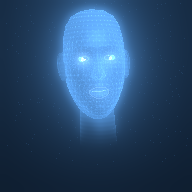
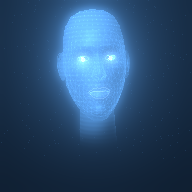
feat(gideon-home): rosto v3 — menos achatado (relevo e luz com sombra)
Pedido do dono: rosto muito achatado. Mais profundidade, olhos fundos, maçãs e queixo
marcados, lábios mais cheios; luz de cima/esquerda com sombras.

Claude-Session: https://claude.ai/code/session_01S6A871KPxJb9f2aMNvANUj

Changed region(s): [[0.2812, 0.0625, 0.6875, 0.7188]]

diff --git a/gideon/home/rosto.js b/gideon/home/rosto.js
@@ -32,16 +32,22 @@ export function iniciarRosto(palco) {
   for (let i = 0; i < N; i++) {
     let x = B[i * 3], y = B[i * 3 + 1], z = B[i * 3 + 2];
     y += 0.3 * suave(-7, -9.4, y);                                                      // queixo um pouco menor (olhos ficam no meio da cabeça)
-    x *= 0.87 * (1 - 0.2 * suave(-2.5, -10.5, y));                                      // mais estreito; maxilar afina até o queixo
+    x *= 0.9 * (1 - 0.2 * suave(-2.5, -10.5, y));                                       // mais estreito; maxilar afina até o queixo
     const ax = Math.abs(x);
-    z += 0.3 * suave(3.2, 5.6, ax) * suave(-1.2, 0.6, y) * suave(2.8, 1.0, y);        // maçãs do rosto
-    z -= 0.35 * suave(3.0, 5.0, ax) * suave(-1.6, -3.2, y) * suave(-6.2, -4.4, y);    // bochecha um pouco funda
-    const nariz = suave(2.4, 1.0, ax) * suave(-3.0, -1.8, y) * suave(3.2, 2.0, y) * suave(4.6, 5.6, z);
-    z -= (z - 4.6) * 0.2 * nariz; x *= 1 - 0.1 * nariz;                                 // nariz mais delicado
+    // relevo (rosto menos achatado): profundidade geral maior, olhos fundos, sobrancelha, nariz, maçãs, lábios e queixo saltando
+    z = 0.6 + (z - 0.6) * 1.2;
+    const orbita = 1 - suave(0.55, 1.45, Math.hypot((ax - 2.8) / 1.05, (y - 2.7) / 0.85));
+    z -= 0.45 * orbita;                                                                  // olhos mais fundos
+    z += 0.12 * suave(0.8, 1.8, ax) * suave(5.2, 4.4, ax) * suave(3.4, 3.9, y) * suave(5.4, 4.6, y); // arco da sobrancelha
+    z += 0.55 * suave(3.0, 5.4, ax) * suave(-1.4, 0.4, y) * suave(2.6, 1.0, y);        // maçãs do rosto
+    z -= 0.55 * suave(3.0, 5.0, ax) * suave(-1.6, -3.2, y) * suave(-6.4, -4.4, y);    // bochecha funda abaixo da maçã
+    z += 0.6 * suave(2.8, 0.6, ax) * suave(-6.8, -8.2, y);                              // queixo marcado (não fica para trás no perfil)
+    const nariz = suave(2.4, 1.0, ax) * suave(-3.0, -1.8, y) * suave(3.2, 2.0, y) * suave(5.0, 6.2, z);
+    z += (z - 5.0) * 0.03 * nariz; x *= 1 - 0.12 * nariz;                               // nariz fino
     B[i * 3] = x; B[i * 3 + 1] = y; B[i * 3 + 2] = z;
   }
-  for (const i of [185, 40, 39, 37, 0, 267, 269, 270, 409]) { B[i * 3 + 1] += 0.08; B[i * 3 + 2] += 0.1; }
-  for (const i of [146, 91, 181, 84, 17, 314, 405, 321, 375]) { B[i * 3 + 1] -= 0.1; B[i * 3 + 2] += 0.1; }
+  for (const i of [185, 40, 39, 37, 0, 267, 269, 270, 409]) { B[i * 3 + 1] += 0.08; B[i * 3 + 2] += 0.15; }
+  for (const i of [146, 91, 181, 84, 17, 314, 405, 321, 375]) { B[i * 3 + 1] -= 0.1; B[i * 3 + 2] += 0.15; }
   for (const i of SOBRANCELHAS) B[i * 3 + 1] += 0.15;
   for (const i of [95, 88, 178, 87, 14, 317, 402, 318, 324]) B[i * 3 + 1] += 0.42; // fecha a fresta da malha original
   for (const i of [191, 80, 81, 82, 13, 312, 311, 310, 415]) B[i * 3 + 1] -= 0.06;
@@ -118,8 +124,8 @@ export function iniciarRosto(palco) {
       vec4 mv = viewMatrix * w; vV = normalize(-mv.xyz); gl_Position = projectionMatrix * mv; }`;
   const FRAG = `uniform vec3 uCor; uniform float uT, uBrilho, uPinos, uSome; varying vec3 vN; varying vec3 vV; varying vec3 vW; varying vec3 vB;
     void main(){ vec3 n = normalize(vN); float fr = pow(1.0 - abs(dot(n, normalize(vV))), 2.0);
-      vec3 L = normalize(vec3(0.2, 0.55, 0.8)); float luz = max(dot(n, L), 0.0);
-      float esp = pow(max(dot(reflect(-L, n), normalize(vV)), 0.0), 6.0);
+      vec3 L = normalize(vec3(-0.3, 0.6, 0.75)); float luz = max(dot(n, L), 0.0);
+      float esp = pow(max(dot(reflect(-L, n), normalize(vV)), 0.0), 10.0);
       float linhas = 0.86 + 0.14 * sin(vW.y * 7.0 - uT * 2.2);
       float faixa = smoothstep(1.3, 0.0, abs(vW.y - (16.0 - mod(uT * 6.0, 46.0))));
       vec3 q = vB - vec3(0.0, 1.5, -4.0);
@@ -128,7 +134,7 @@ export function iniciarRosto(palco) {
       float pino = smoothstep(0.2, 0.09, d) * (0.5 + 0.5 * smoothstep(0.12, 0.0, length(f - vec2(-0.05, 0.06))));
       float grade = (smoothstep(0.05, 0.0, abs(f.x)) * 0.7 + smoothstep(0.04, 0.0, abs(f.y)) * 0.3) * 0.09;
       float pontos = uPinos * (pino * mix(0.75, 0.38, rosto) + grade * (1.0 - 0.6 * rosto));
-      float a = (0.02 + 0.55 * fr + 0.2 * luz * luz + 0.16 * esp) * linhas + 0.18 * faixa + pontos * (0.45 + 0.55 * luz);
+      float a = (0.006 + 0.36 * fr + 0.34 * pow(luz, 1.8) + 0.2 * esp) * linhas + 0.14 * faixa + pontos * (0.22 + 0.7 * luz);
       a *= mix(1.0, 0.8 * smoothstep(-4.5, 4.5, vB.y), uSome); // pescoço some para baixo
       gl_FragColor = vec4(uCor * a * uBrilho, 1.0); }`;
   const pele = (pinos = 1) => { const m = new T.ShaderMaterial({ uniforms: { ...uni, uPinos: { value: pinos }, uSome: { value: 0 } }, vertexShader: VERT, fragmentShader: FRAG,

diff --git a/gideon/docs/changelog.md b/gideon/docs/changelog.md
@@ -44,3 +44,4 @@
 - GIDEON Home: por voz o modelo se apresentava como "Gemini" e dizia não ter Gmail nem Agenda. Causa: a senha temporária do Google, quando traz `bidiGenerateContentSetup`, faz o Google ignorar o setup enviado pelo navegador (prompt, ferramentas e voz). Correção: a configuração inteira (prompt do GIDEON, ferramentas, voz, transcrição, compressão de contexto) vai dentro da senha temporária. Testado: responde como GIDEON, chama `listar_tarefas` e `buscar_memoria` e fala o resultado. Prompt de voz agora proíbe dizer "guardei" sem chamar a ferramenta.
 - GIDEON Home: rosto holográfico 3D no lugar do orbe, seguindo o logo enviado pelo dono (cabeça careca de luz azul, orelhas, pontos em grade, olhos brilhantes, sorriso leve, riscos de luz no fundo, "G I D E O N" com a linha brilhante). Rosto original: malha genérica do MediaPipe (Apache 2.0) com traços suaves. A boca abre com o volume da voz e muda de formato com agudos e graves; pisca, olha, flutua; dorme (olhos fechados) quando desligado. three.js r186.1 empacotado em `home/vendor/` (sem CDN). Ícones do app gerados do próprio rosto. Sem WebGL, volta o orbe.
 - GIDEON Home, rosto v2 (pedido do dono: "muito circular", maxilar e orelha estranhos). Com base no logo e em imagens do holograma da Gideon (Arrowverse Wiki): cabeça mais alta e estreita, crânio com perfil próprio (têmporas fechadas, nuca que entra no pescoço), maxilar afinando até o queixo, maçãs marcadas e bochecha levemente funda, nariz mais delicado, olhos mais abertos, orelhas em C (borda, dobra e lóbulo) abertas para fora, pescoço que some para baixo. Holograma "sólido" (passada de profundidade): a orelha e o pescoço de trás não aparecem através da cabeça. Rosto continua original (não copia a atriz).
+- GIDEON Home, rosto v3 (pedido do dono: "muito achatado"): mais profundidade (relevo 20% maior), olhos fundos, maçãs saltadas com bochecha funda embaixo, queixo marcado, lábios mais cheios, nariz fino; luz de cima e da esquerda com sombras (antes a luz era igual no rosto todo).
